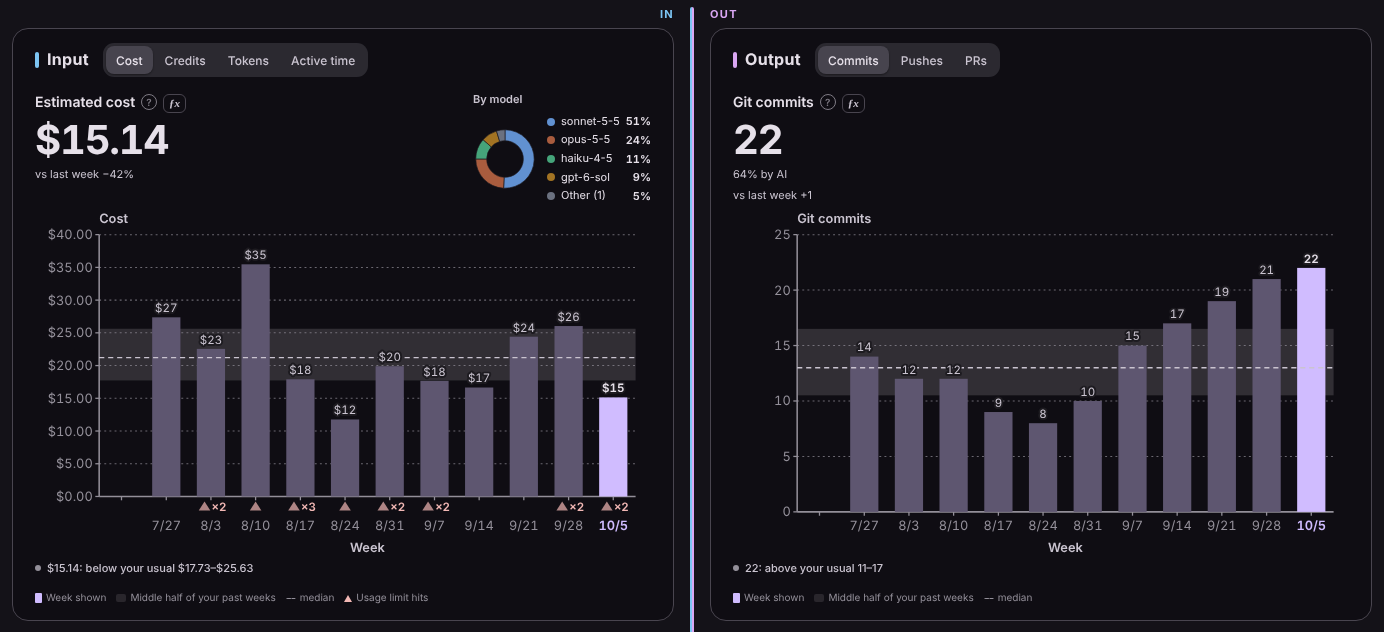
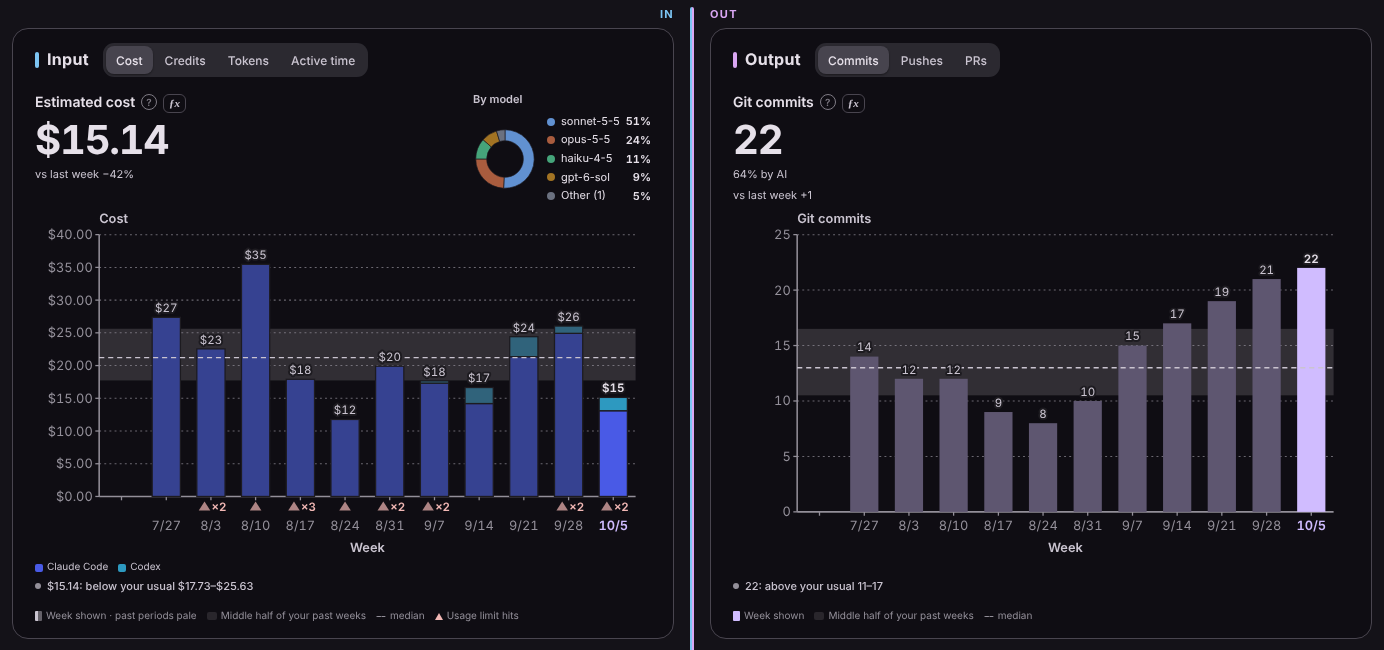
Summary: stack Cost and Tokens by agent too, and polish the stacked bars
Cost and Tokens in the Input panel add up Claude Code, Codex and the
other agents that record tokens, and stack each bar by agent like
Credits. Bars are stacked only when two or more agents appear in the
chart. The tooltip lists agents top to bottom as stacked, credits per
agent show one decimal so the parts add up, and the panel key marks the
shown period with a neutral "solid · past periods pale" swatch instead
of the accent color, which looked like another series.

Tests: xss.mjs allows the --c:var(--aN) style and no longer walks the
removed agent switch; smoke.mjs checks the cost and tokens stacks.

diff --git a/internal/web/js/insight.js b/internal/web/js/insight.js
@@ -91,7 +91,10 @@ function insSpark(b, label, W = 480, bar = false){
   // 利用上限の印は、使った量（費用・クレジット・トークン・時間）だけ。棒のグラフには線を重ねない（以前は累積を右の軸で重ねていたが、
   // 軸が 2 本になって読み比べにくく、累積の値が右の軸の目盛りと重なった）。線のグラフ（単価）には、いつもの水準として平均の線を重ねる
   const f0 = Math.min(Math.max(0, pts.findIndex(x => x.p.we > hs)), pts.length - 4), ps = pts.slice(f0), n = ps.length, /* 記録の始まる前の期間は描かない（履歴の短い人のグラフが、右端に寄って空かないように。最大 13 期間で「?」の推移と同じ） */ use = INS_USE.has(k), cnt = bar || INS_ADD.has(k);
-  const stk = bar && b.stack ? ps.map(q => q.v == null ? null : b.stack(q.p)) : null, stkA = stk ? [...new Set(stk.flatMap(xs => (xs || []).map(z => z[0])))].sort((p, q) => agOrd(p) - agOrd(q)) : []; // 積み上げの区分（期間ごとの [名前, 量]）と、グラフに出てくる名前
+  const fs = k === "credits" ? cr1 : fm; // 積み上げの区分の量（credits は小数 1 桁まで。整数に丸めると、区分の合計が棒の値と合わなく見える）
+  // 積むのは、グラフに 2 つ以上のエージェントが出てくるときだけ（1 つなら、いつもの色の棒のまま）
+  const stk0 = bar && b.stack ? ps.map(q => q.v == null ? null : b.stack(q.p)) : null, stkA0 = stk0 ? [...new Set(stk0.flatMap(xs => (xs || []).map(z => z[0])))].sort((p, q) => agOrd(p) - agOrd(q)) : [];
+  const stk = stkA0.length > 1 ? stk0 : null, stkA = stk ? stkA0 : []; // 積み上げの区分（期間ごとの [名前, 量]）と、グラフに出てくる名前
   { let s = 0, c = 0; ps.forEach(q => { const a = q.cur ? q.a : q.v; if (a != null){ s += a; c++; } q.c = cnt || !c ? null : s / c; }); }
   const vals = ps.filter(x => x.v != null).map(x => x.v).concat(ps.filter(x => x.c != null).map(x => x.c));
   // 利用上限に当たった期間（棒のグラフでは、棒に重ねず x 軸のすぐ下の段に印を置き、期間の名前をその分だけ下げる）
@@ -158,7 +161,7 @@ function insSpark(b, label, W = 480, bar = false){
   const bv = q => q.v == null ? null : insBarS(k, q.cur && b.part ? b.cur : q.v), alt = bar && Math.max(0, ...ps.map(q => (bv(q) || "").length)) * 5.5 > step - 3;
   const pcl = !bar ? "" : ps.map((q, i) => { const hv = q.v == null ? 0 : q.cur && b.part ? Math.max(b.v, b.cur) : q.v, over = hv > top; if (q.v == null || (!over && (n - 1 - i) % 2 && alt)) return ""; const yy = y(Math.min(hv, top)), up = yy > T + 12;
     return `<text class="spc${q.cur ? " cur" : ""}${over ? " over" : ""}${(n - 1 - i) % 2 && !over ? " k2" : ""}" x="${x(i).toFixed(1)}" y="${(over ? T + 28 : up ? yy - 4 : yy + 12).toFixed(1)}">${esc(bv(q))}</text>`; }).join(""); // 上端に近い棒は棒の中に。上を切った棒は、切れ目の下に
-  const hits = ps.map((q, i) => `<rect class="hit" x="${(x(i) - step / 2).toFixed(1)}" y="0" width="${step.toFixed(1)}" height="${H - B}"${tipAttr(q.p.label, q.v == null ? t("No records") : (q.cur && b.part ? insEndLabel(fm(q.v)) : fm(q.v)), q.cur && b.part ? `${t("So far")}: ${fm(b.cur)}` : "", q.c == null ? "" : `${cl}: ${fm(q.c)}`, pcOf(i) == null ? "" : `${vsL} ${pcS(pcOf(i))}`, stk && stk[i] && stkA.length > 1 ? stk[i].map(([a, v]) => `${a}: ${fm(v)}`) : "")}/>`).join("");
+  const hits = ps.map((q, i) => `<rect class="hit" x="${(x(i) - step / 2).toFixed(1)}" y="0" width="${step.toFixed(1)}" height="${H - B}"${tipAttr(q.p.label, q.v == null ? t("No records") : (q.cur && b.part ? insEndLabel(fm(q.v)) : fm(q.v)), q.cur && b.part ? `${t("So far")}: ${fm(b.cur)}` : "", q.c == null ? "" : `${cl}: ${fm(q.c)}`, pcOf(i) == null ? "" : `${vsL} ${pcS(pcOf(i))}`, stk && stk[i] ? [...stk[i]].reverse().map(([a, v]) => `${a}: ${fs(v)}`) : "")}/>`).join("");
   // 利用上限に当たった時刻：小さな赤い三角（縦線はグラフを隠すので引かない）。同じ期間の到達は 1 つにまとめ、回数を添える。
   // 棒のグラフでは x 軸のすぐ下の段に（棒の上に重ねると、棒の色に紛れる）、線のグラフでは x 軸の上に
   const lim = !use ? "" : ps.map((q, i) => ({i, q, h: lh[i]})).filter(z => z.h.length && z.q.v != null).map(({i, h}) => {
@@ -166,7 +169,7 @@ function insSpark(b, label, W = 480, bar = false){
     const rows = h.slice(0, 6).map(z => z.r ? t("{time} (resets {r})", {time: `${md(z.t)} ${hm(z.t)}`, r: z.r}) : `${md(z.t)} ${hm(z.t)}`).concat(h.length > 6 ? ["…"] : []);
     return `<path class="slim" d="M${lx.toFixed(1)} ${(ty - 7).toFixed(1)}l-4.5 7h9z"/>${h.length > 1 ? `<text class="slimn${bar ? " s" : ""}" x="${(bar ? lx + 5.5 : lx).toFixed(1)}" y="${(bar ? ty : ty - 10).toFixed(1)}">×${h.length}</text>` : ""}<rect class="hit slimhit" x="${(x(i) - 6 - (bar ? 4 : 0)).toFixed(1)}" y="${(ty - 10).toFixed(1)}" width="${bar ? 20 : 12}" height="12"${tipAttr(h.length === 1 ? t("Usage limit hits") : `${t("Usage limit hits")} ×${h.length}`, rows)}/>`; }).join("");
   const yt = (INS_SHORT()[k] || label || insName(k)), xt = st.mode === "month" ? t("Month") : t("Week");
-  const list = ps.map((q, i) => `${q.p.label} ${q.v == null ? "—" : fm(q.v)}${q.c == null ? "" : ` (${cl} ${fm(q.c)})`}${stk && stk[i] && stkA.length > 1 ? ` (${stk[i].map(([a, v]) => `${a} ${fm(v)}`).join(", ")})` : ""}`).join(LSEP());
+  const list = ps.map((q, i) => `${q.p.label} ${q.v == null ? "—" : fm(q.v)}${q.c == null ? "" : ` (${cl} ${fm(q.c)})`}${stk && stk[i] ? ` (${[...stk[i]].reverse().map(([a, v]) => `${a} ${fs(v)}`).join(", ")})` : ""}`).join(LSEP());
   // 積み上げの色の凡例（グラフのすぐ下。色だけに頼らないよう、名前を添える）
   const skey = stkA.length ? `<span class="tagk" aria-hidden="true">${stkA.map(a => `<span class="lg" style="--c:${agColor(a)}">${esc(a)}</span>`).join("")}</span>` : "";
   return `<span class="tspk${bar ? " tbar" : ""}"><span class="sr">${esc(t("Trend: {list}", {list}))}</span><svg aria-hidden="true"${LB ? ` class="lb"` : ""} viewBox="0 0 ${W} ${H}"><text class="syt" x="${L}" y="11">${esc(yt)}</text>${bar ? band + ticks + xtm + marks + med : band + med + ticks + xtm + cuml + marks}${pcl}${cEnd}${xl}<text class="sxt" x="${(L + (W - L - R) / 2).toFixed(1)}" y="${H - 3}">${esc(xt)}</text>${hits}${lim}</svg>${skey}</span>`;
@@ -301,14 +304,14 @@ function insHeadlines(F){
   const seen = k => Array.from({length: INS_N + 1}, (_, i) => periodBack(i)).some(p => metricAt(k, p) > 0);
   const pu = pw && pw.usage;
   // ── コスト：推定費用・Kiro のクレジット・トークン・稼働時間 ──
-  const bc = insBase("cost"); if (bc && (u.tokens || bc.cur)) tile("cost", "cost", t("Estimated cost"), bc, fmtM("cost", bc.cur), [vs(bc.cur, V.of("cost", pu && pu.tokens ? costOf(pu) : null), usd), bc.part ? pace(bc.cur, bc.v, usd) : ""], "cost");
+  const bc = insBase("cost"); if (bc) bc.stack = shareBy("cost"); if (bc && (u.tokens || bc.cur)) tile("cost", "cost", t("Estimated cost"), bc, fmtM("cost", bc.cur), [vs(bc.cur, V.of("cost", pu && pu.tokens ? costOf(pu) : null), usd), bc.part ? pace(bc.cur, bc.v, usd) : ""], "cost");
   // Kiro credits は、Kiro のどのエージェント（Kiro IDE / CLI (V3)・Kiro CLI (V2)・Kiro Crew など）の分もまとめて 1 つの量にする。
   // 表示中の期間に credits がなくても、推移のグラフの期間のどこかにあれば出す（使うエージェントを替えても、前の期間の credits と並べて見られるように）。棒はエージェントの色で積み上げる
-  if (u.credits || seen("credits")){ const bk = insRange("credits", u.credits || 0, p => p.S && p.S.usage ? p.S.usage.credits || null : null, true, true, cr); bk.stack = creditsBy;
+  if (u.credits || seen("credits")){ const bk = insRange("credits", u.credits || 0, p => p.S && p.S.usage ? p.S.usage.credits || null : null, true, true, cr); bk.stack = shareBy("credits");
     const mp = monthProj(), r1 = cr1; // 週の表示でも、クレジットの今月末の推定を添える（クレジットは月ごとの枠）
     const me = mp && mp.credits != null ? {f: `${t("Month-end credits")} = ${t("this month")} ${r1(mp.soCredits)} ÷ ${mp.days}${t("d")} × ${mp.nd}${t("d")} = ${r1(mp.credits)}`, big: {l: t("Month-end estimate (this month)"), v: crN(mp.credits)}} : "";
     tile("cost", "credits", t("Kiro credits"), bk, crN(u.credits || 0), [vs(u.credits || 0, V.of("credits", pu && pu.credits), r1)].concat(bk.part ? pace(u.credits || 0, bk.v, r1, crN) : t("Kiro's own count, not an estimate"), me), "credits"); }
-  if (u.tokens){ const bt = insBase("tokens"); if (bt) tile("cost", "tokens", t("Tokens"), bt, tok(u.tokens), [vs(u.tokens, V.of("tokens", pu && pu.tokens), tok), `${t("output")} ${tok(u.out)} ÷ ${tok(u.tokens)} = ${Math.round(u.out * 100 / u.tokens)}%`], "tokens"); }
+  if (u.tokens){ const bt = insBase("tokens"); if (bt){ bt.stack = shareBy("tokens"); tile("cost", "tokens", t("Tokens"), bt, tok(u.tokens), [vs(u.tokens, V.of("tokens", pu && pu.tokens), tok), `${t("output")} ${tok(u.out)} ÷ ${tok(u.tokens)} = ${Math.round(u.out * 100 / u.tokens)}%`], "tokens"); } }
   const ba = insBase("active"); if (ba) tile("cost", "active", t("Active time"), ba, fmtM("active", ba.cur), [vs(ba.cur, V.of("active", pw && pw.active), v => dur(v)), ba.part ? pace(ba.cur, ba.v, v => dur(v)) : ""], "active");
   // ── 出力：コミット・push・PR（どれも Git の側。AI の編集の行は下の Outputs のカード） ──
   const g = w && w.git && w.git.commits ? w.git : null, o = (w && w.outputs) || {};
@@ -358,7 +361,7 @@ function insHeadlines(F){
   const L1 = (cls, sel, text) => `<span class="lg ${cls}" data-lg="${sel}">${esc(text)}</span>`;
   // 量のパネル（投入・出力）は棒、単価のパネルは点と線（insSpark）。凡例の印もそれに合わせる
   const lgd = id => { const bar = !INS_RATE.has(id), est = M ? t("Month-end estimate") : t("End-of-week estimate");
-    return `<p class="tlg" aria-hidden="true">${bar ? L1("bnow", "rect.sbar.cur", now) : L1("now", "circle.now", now)}${insFrac() < 1 ? (bar ? L1("bnow part", "rect.sbar.ext", est) : L1("now part", "circle.now.part", est) + L1("prj", "line.prj", t("Projection"))) : ""}${L1("band", "rect.band", t("Middle half of your past {unit}", {unit: insNoun()}))}${bar ? L1("brk", "path.sbrk", t("Cut bar: beyond the scale, with its amount on it")) : ""}${L1("med", "line.med", t("median"))}${bar ? "" : L1("cum", "polyline.cuml", t("Running average"))}${bar ? "" : L1("ybrk", "path.ybrk", t("Axis doesn't start at 0"))}${limAny && id === "cost" ? L1("lgl", "path.slim", t("Usage limit hits")) : ""}</p>`; };
+    return `<p class="tlg" aria-hidden="true">${bar ? L1("bnow", "rect.sbar.cur:not(.sg)", now) + L1("bnow sg", "rect.sbar.sg.cur", `${now} · ${t("past periods pale")}`) : L1("now", "circle.now", now)}${insFrac() < 1 ? (bar ? L1("bnow part", "rect.sbar.ext", est) : L1("now part", "circle.now.part", est) + L1("prj", "line.prj", t("Projection"))) : ""}${L1("band", "rect.band", t("Middle half of your past {unit}", {unit: insNoun()}))}${bar ? L1("brk", "path.sbrk", t("Cut bar: beyond the scale, with its amount on it")) : ""}${L1("med", "line.med", t("median"))}${bar ? "" : L1("cum", "polyline.cuml", t("Running average"))}${bar ? "" : L1("ybrk", "path.ybrk", t("Axis doesn't start at 0"))}${limAny && id === "cost" ? L1("lgl", "path.slim", t("Usage limit hits")) : ""}</p>`; };
   // パネル：頭（見出し・切り替え・注）、タイル（値の段・グラフ・印）、凡例。投入（cost・uin）は左の列、出力（out・unit）は右の列（INS_SIDE）
   const card = (id, label, sws, data, cur, items, note = "") => `<section class="ikg ik-${id} side-${INS_SIDE[id]}"${data} aria-label="${esc(label)}"><div class="ikhd"><span class="ikio" aria-hidden="true">${INS_SIDE[id] === "in" ? "IN" : "OUT"}</span><h5 class="ikgh">${esc(label)}${sws}</h5>${note}</div><div class="ikrow">${items.map(x => x.key === cur ? x.h : x.h.replace(`data-ch="${x.key}"`, `data-ch="${x.key}" hidden`)).join("")}</div>${lgd(id)}</section>`;
   // 選択肢はいつも同じ並び。数字のないものは出さない（覚えている選択が使えなければ、最初の使えるものに）
@@ -378,9 +381,10 @@ function insHeadlines(F){
   const nb = insBase("active"), few = nb && nb.q1 == null ? `<p class="note insfew">${esc(t("To compare with your usual range, kiroku needs {min} past {unit} with records (have {n}).", {min: INS_MIN, unit: insUnit(INS_MIN), n: nb.n}))}</p>` : ""; // 比べられないことは、数字ごとでなく 1 度だけ言う
   return `${few}<div class="insh"><span class="insio in" aria-hidden="true">IN</span><span class="insdiv" aria-hidden="true"></span><span class="insio out" aria-hidden="true">OUT</span>${one("cost", INS_IN())}${one("out", INS_OUT())}${uin}${unit}</div><p class="ifxs insdef">${fx(insDef())}</p>`;
 }
-// creditsBy は、期間 p の Kiro credits をエージェントごとに [名前, credits] で（エージェントの表の順。色と積む順をいつも同じに）
+// shareBy(f) は、期間 p の量 f（cost・credits・tokens）をエージェントごとに [名前, 量] で返す関数（エージェントの表の順。色と積む順をいつも同じに）。
+// 推定費用とトークンは Claude Code・Codex など、credits は Kiro のエージェントの分を、それぞれ 1 つの量として積み上げる
 const agOrd = a => { const i = AGENTS.findIndex(z => z.name === a); return i < 0 ? AGENTS.length : i; };
-const creditsBy = p => { const xs = ((p.S && p.S.shares || {}).source || []).filter(x => x.credits > 0).map(x => [x.key, x.credits]); return xs.length ? xs.sort((a, b) => agOrd(a[0]) - agOrd(b[0])) : null; };
+const shareBy = f => p => { const xs = ((p.S && p.S.shares || {}).source || []).filter(x => x[f] > 0).map(x => [x.key, x[f]]); return xs.length ? xs.sort((a, b) => agOrd(a[0]) - agOrd(b[0])) : null; };
 const tickM = (k, v) => /^credits/.test(k) ? crN(v) : fmtM(k, v);
 /* 見直す候補の対象の費用（そのセッションの推定費用の合計）。費用で表せない候補（利用上限・繰り返し・長すぎるプロンプト）は null */
 function insStake(f){

diff --git a/internal/web/style.css b/internal/web/style.css
@@ -1296,6 +1296,7 @@ body.open .drawer.flowfull{width:100vw;height:100dvh;max-height:none;border-radi
 /* 累積・平均の線の右端の値（insSpark の cEnd）。線と同じ琥珀色、地の色の縁取り。棒のグラフでは右の軸の目盛りの位置に */
 .tspk .cud{fill:var(--amber)}.tspk text.cuv{font-size:9px;font-weight:600;fill:var(--amber);text-anchor:end;font-variant-numeric:tabular-nums;paint-order:stroke;stroke:var(--surface);stroke-width:3px;stroke-linejoin:round}
 /* Kiro credits の棒は、エージェントの色で積み上げる（過去の期間は淡く、表示中の期間は濃く。区分の間に地の色の細い線）。グラフの下に色の凡例 */
-.tspk .sbar.sg{fill:color-mix(in oklab,var(--c) 60%,var(--surface));stroke:var(--surface);stroke-width:.6}.tspk .sbar.sg.cur{fill:var(--c)}
+.tspk .sbar.sg{fill:color-mix(in oklab,var(--c) 60%,var(--surface));stroke:var(--surface);stroke-width:1}.tspk .sbar.sg.cur{fill:var(--c)}
 .tagk{display:flex;flex-wrap:wrap;gap:2px 10px;font-size:var(--fs-2xs);color:var(--ink-2);line-height:1.4}
 .tagk .lg::before{content:"";display:inline-block;width:8px;height:8px;margin-right:4px;vertical-align:middle;border-radius:2px;background:var(--c)}
+.tlg .lg.bnow.sg::before{background:linear-gradient(90deg,var(--ink-2) 0 50%,color-mix(in oklab,var(--ink-2) 45%,var(--surface)) 50%)} /* 積み上げの棒：色はエージェント（グラフの下の凡例）。ここは濃い＝表示中・淡い＝過去だけを、エージェントの色に似ない灰色で */

diff --git a/internal/web/js/i18n.js b/internal/web/js/i18n.js
@@ -220,6 +220,7 @@ const JA_TEXT = {
   "In {sessions}": "{sessions}で",
   "Month shown": "表示中の月",
   "Week shown": "表示中の週",
+  "past periods pale": "過去の期間は淡い色",
   "Where it went": "どこに使ったか",
   "Group by": "分け方",
   "Model": "モデル",

diff --git a/docs/guide.md b/docs/guide.md
@@ -224,7 +224,7 @@ Each chart opens with a takeaway computed from the data (for example "At this pa
 
 - **From input to output**, under the four panels and above Breakdown, at the full width of the page (the one card wider than half the page), headed at the same level as Input and Output, with the switch for the amount on the same line: a Sankey diagram of the amount (estimated cost, Kiro credits, tokens or session time) from agent to project (the six largest, the rest grouped) to whether the session reached a commit or PR. Bands from an agent take the agent's color; each project is one band in its own color across the project column, and the bands leaving it keep that color. Names and amounts sit on a backing in the card's color: agents to the left, outputs to the right, projects on their band in the project column, with a short line to the node when a name had to move down to make room. On screens 600px wide or less, the chart is not drawn (it would be too small to read) and the names and amounts are listed instead, by column. One sentence above it says where the whole amount went, leaving out the parts that are zero, such as "Of $15.14 estimated cost, $8.67 (57%) went to sessions with a commit or PR, $4.42 (29%) to sessions without, and $2.04 (14%) is from agents that don't record commits". Its percentages, and those in each column of the list, are rounded so that they add up to 100
 - **Figures**, in four compact panels that split what you put in, what came out of it, and the rate of each: two by two on wide windows, with the input side (Input over Unit cost per input) on the left and the output side (Output over Unit cost per output) on the right, split by a two-colored line with "IN" and "OUT" at its top (blue for the input side, purple for the output side, also on each panel's heading mark; neither color means good or bad). On narrower windows they stack in one column (Input, Output, Unit cost per input, Unit cost per output), each with its IN or OUT label above it. Each panel is one trend chart with a switch next to its heading that picks what it shows. A choice with nothing to show for the period is left out of the switch; the view remembers each choice and falls back to the first available one:
-  - **Input**: Cost (estimated cost), Credits (Kiro credits, with this month's month-end estimate in the week view), Tokens (with the output share) or Active time. Credits from every Kiro agent (Kiro IDE / CLI (V3), Kiro CLI (V2), Kiro CLI (SQLite) and Kiro Crew) count as one amount, and Credits is offered when any period in the chart has credits, so periods from an agent you no longer use stay next to the current ones. Each Credits bar is stacked by agent in the agent's color, with a key under the chart and each agent's credits in the bar's tooltip. Each bar of its chart is labeled with the period's amount in short form (such as $1.2k, 44, 12M or 18h); for a period still in progress it is the amount so far. The change from the previous period is in the bar's tooltip and the figure's "vs last week" line. Next to the figure, "By model" shows a small donut of each model's share of Cost, Credits or Tokens (whichever is selected; the top four and Other), when more than one model was used. Each response counts toward the model that wrote it, as in By model of Where it went; Active time can't be split by model, so it has none
+  - **Input**: Cost (estimated cost), Credits (Kiro credits, with this month's month-end estimate in the week view), Tokens (with the output share) or Active time. Every agent that records the amount counts toward one total: Cost and Tokens add up Claude Code, Codex and the other agents that record tokens, and Credits adds up every Kiro agent (Kiro IDE / CLI (V3), Kiro CLI (V2), Kiro CLI (SQLite) and Kiro Crew). Credits is offered when any period in the chart has credits, so periods from an agent you no longer use stay next to the current ones. The bars of Cost, Credits and Tokens are stacked by agent in the agent's color, with a key under the chart and each agent's amount in the bar's tooltip. Tokens from different agents are counted alike, though each model's tokenizer splits text a little differently. Each bar of its chart is labeled with the period's amount in short form (such as $1.2k, 44, 12M or 18h); for a period still in progress it is the amount so far. The change from the previous period is in the bar's tooltip and the figure's "vs last week" line. Next to the figure, "By model" shows a small donut of each model's share of Cost, Credits or Tokens (whichever is selected; the top four and Other), when more than one model was used. Each response counts toward the model that wrote it, as in By model of Where it went; Active time can't be split by model, so it has none
   - **Output**: Commits (Git commits with the share by AI, or AI commits when no Git repository could be read), Pushes (from this computer's git reflog, with how many commits they sent) or PRs (pull requests created by AI). Each bar is labeled with its count like the Input chart. Pushes before the oldest push git still keeps (90 days by default) are left out rather than counted as 0
   - **Unit cost per output**: two switches, the measure (Cost, Credits or Tokens) and what it is divided by (Commits, Pushes, PRs or 100 AI lines, the lines the agents' edit tools added and removed). Commits with Cost or Tokens is Claude Code's cost or tokens per AI commit when AI commits are recorded (only Claude Code records which commits it ran); otherwise, and always with Credits, it is the period's whole total per Git commit (the same Git commits as in Output), and the figure's name says which ("Claude Code cost per AI commit" or "Kiro credits per Git commit"). Per Git commit, per push and per PR divide the period's whole total of the measure, because a Git commit, a push or a pull request can't be split into the part AI did; the note under the value says so. PRs counts only pull requests an agent recorded creating (Claude Code), so with Kiro or Codex alone it is not offered; kiroku doesn't guess pull requests from commit subjects. What it is divided by shows only the choices with a figure for the measure picked. Each names what it divides and shows "numerator ÷ denominator" under the value
   - **Unit cost per input**: the same two switches, with what it is divided by being Active hour, Active day (the days the sessions ran), Session or Prompt. Each divides only by the sessions that record what it divides, and its "ƒx" says so (an agent that records credits but no tokens does not dilute cost per hour; per active hour uses each session's own active time, so overlapping sessions each count and the hours can exceed Active time)

diff --git a/changes/kiro-credits-stack.changed.md b/changes/kiro-credits-stack.changed.md
@@ -1,1 +1,1 @@
-- Summary: the Input panel's Credits chart counts the credits of every Kiro agent (Kiro IDE / CLI (V3), Kiro CLI (V2), Kiro CLI (SQLite) and Kiro Crew) together and stacks each bar by agent in the agent's color, with a key under the chart and each agent's credits in the bar's tooltip. Credits is offered whenever a period in the chart has credits, so months from an agent you moved away from stay next to the current ones
+- Summary: the Input panel's Cost, Credits and Tokens bars are stacked by agent in the agent's color, with a key under the chart and each agent's amount in the bar's tooltip. Cost and Tokens add up Claude Code, Codex and the other agents that record tokens; Credits adds up every Kiro agent (Kiro IDE / CLI (V3), Kiro CLI (V2), Kiro CLI (SQLite) and Kiro Crew). Credits is offered whenever a period in the chart has credits, so months from an agent you moved away from stay next to the current ones
